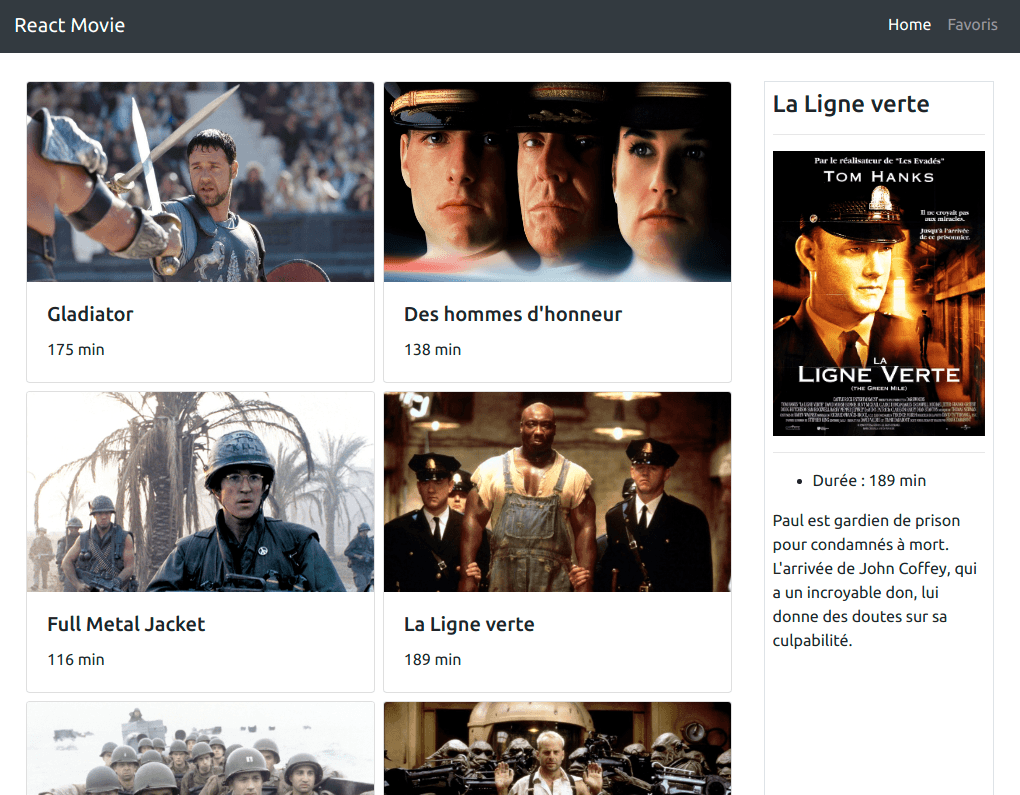
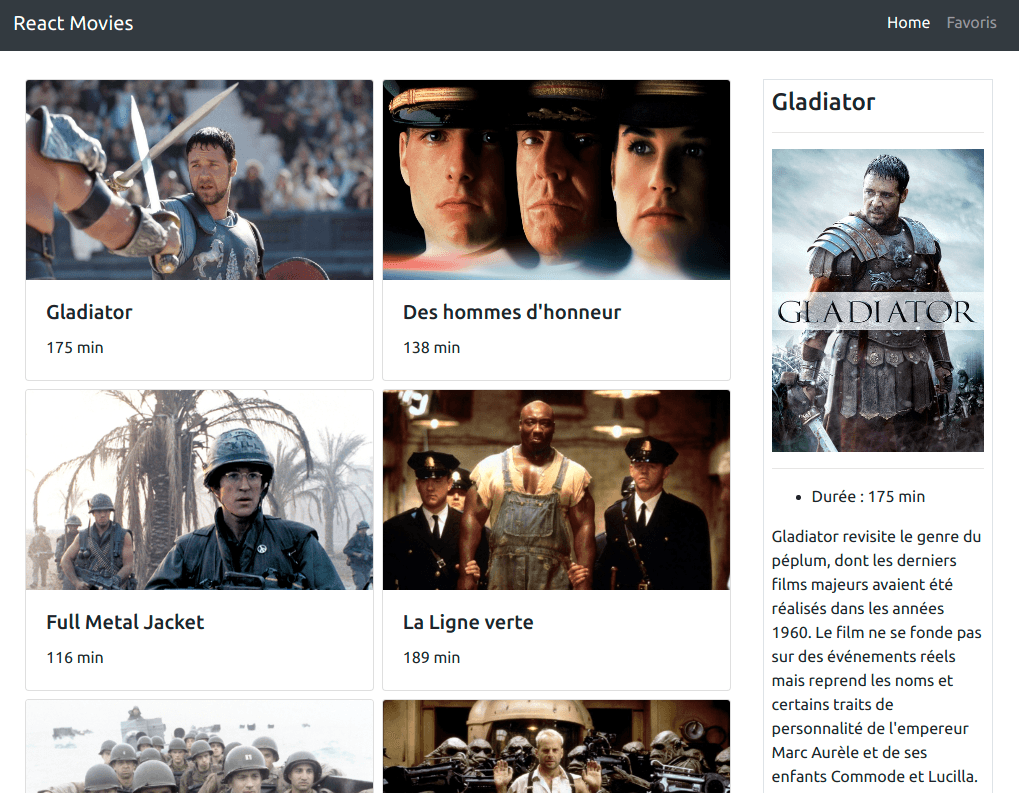
Fixe d'une faute dans le readme + modification du screen et correction d'une faute dans le header

diff --git a/src/components/header/Header.js b/src/components/header/Header.js
@@ -6,7 +6,7 @@ export default class Header extends Component {
     return (
       <header className="navbar navbar-expand-lg navbar-dark bg-dark">
 
-        <a className="navbar-brand" href="/" >React Movie</a>
+        <a className="navbar-brand" href="/" >React Movies</a>
         <button className="navbar-toggler">
           <span className="navbar-toggler-icon"></span>
         </button>

diff --git a/README.md b/README.md
@@ -1,6 +1,5 @@
 # React Movie
-Début d'une application sur l'ajout de plusieurs film en favoris
-
+Début d'une application sur l'ajout de plusieurs films en favoris
 
 # Rendu actuel
 
